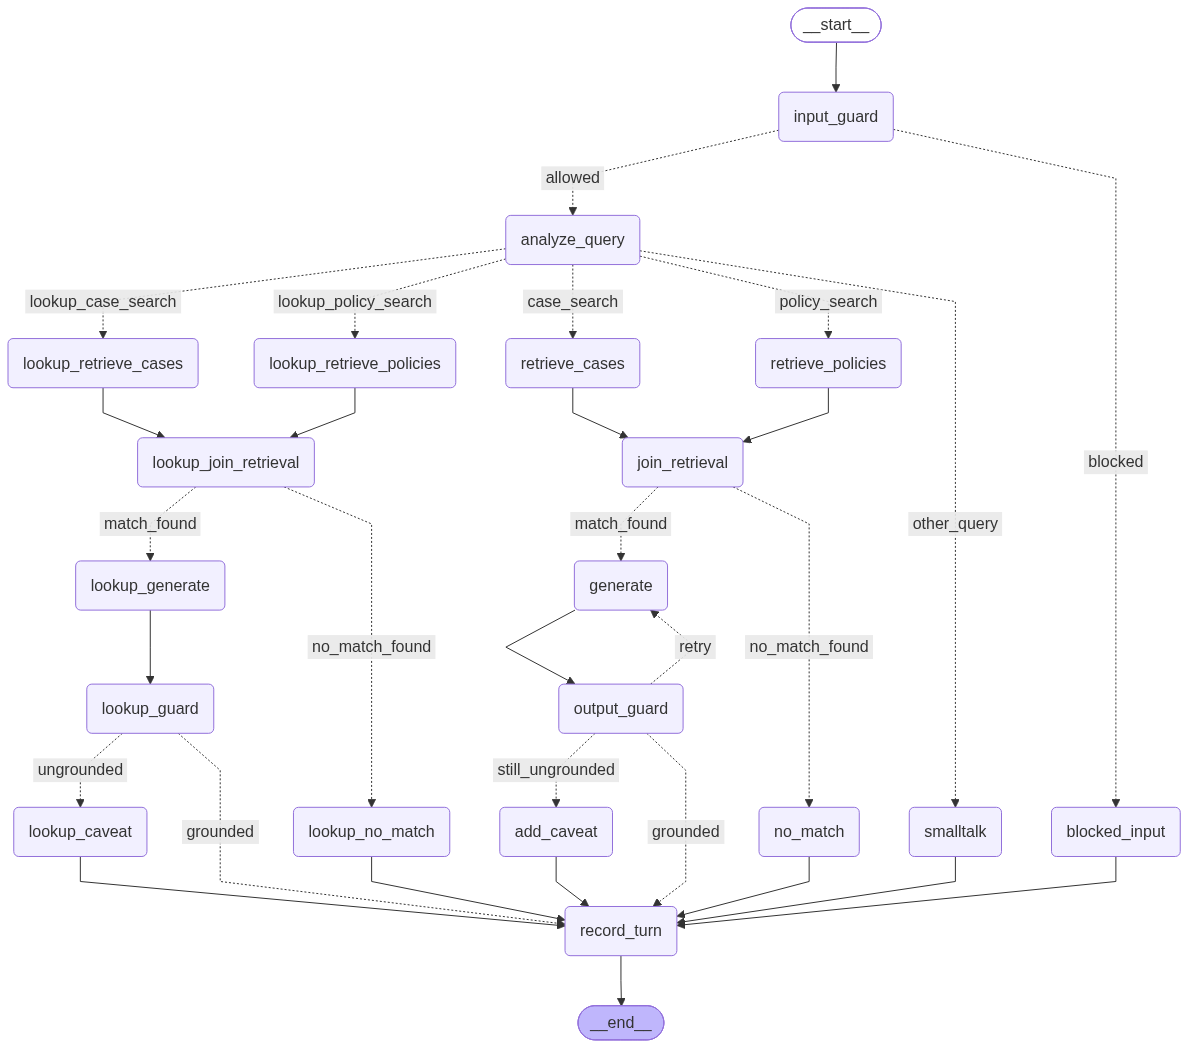
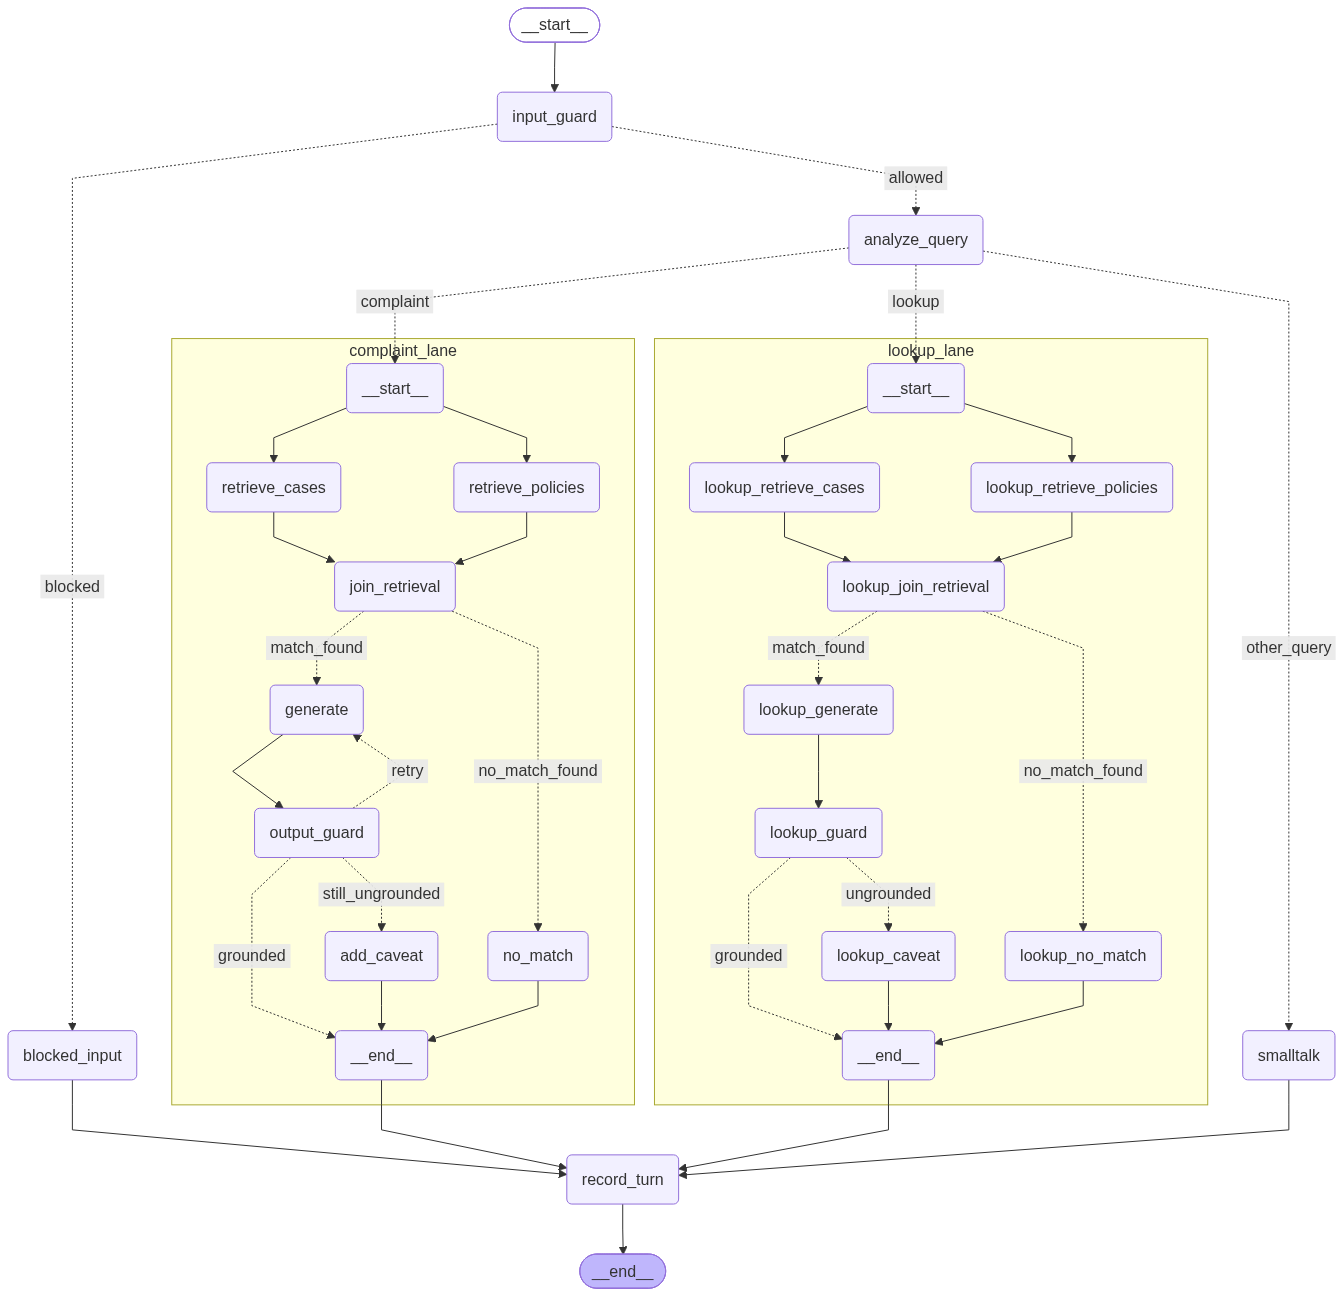
Subgraph:Wire in the subgraphs with main graph

diff --git a/backend/src/cms/rag/graph.py b/backend/src/cms/rag/graph.py
@@ -1,67 +1,40 @@
-"""Graph assembly: guard the input, analyze the query, fork on intent, then guard the draft.
+"""Graph assembly: guard the input, analyze the query, hand it to one lane, record the turn.
 
-    START -> input_guard -+-> blocked_input -> record_turn -> END
-                          +-> analyze_query -+-> complaint lane
-                                             +-> lookup lane
-                                             +-> smalltalk -> record_turn -> END
+    START -> input_guard -+-> blocked_input ------------------------------+
+                          +-> analyze_query -+-> complaint_lane ----------+
+                                             +-> lookup_lane -------------+-> record_turn -> END
+                                             +-> smalltalk ---------------+
 
-    Complaint lane:
-        retrieve_policies -+
-                           +-> join_retrieval -+-> no_match -> record_turn -> END
-        retrieve_cases ----+                   +-> generate -> output_guard -+-> record_turn -> END     (grounded)
-                                                      ^                      +-> generate               (ungrounded, first time)
-                                                      |______________________|
-                                                                             +-> add_caveat -> record_turn -> END  (still ungrounded)
+Each lane is a compiled subgraph with its own nodes — see `rag/subgraphs/complaint.py`
+and `rag/subgraphs/lookup.py` for their wiring. They share no node, so either can
+change without touching the other.
 
-    Lookup lane:
-        lookup_retrieve_policies -+
-                                  +-> lookup_join_retrieval -+-> lookup_no_match -> record_turn -> END       (nothing relevant)
-        lookup_retrieve_cases ----+                          +-> lookup_generate -> lookup_guard -+-> record_turn -> END  (grounded)
-                                                                                                  +-> lookup_caveat -> record_turn -> END
+Every path ends at record_turn, which writes the turn into `chat_history` for the
+checkpointer. Exactly one branch runs per turn, so each gets its own edge — a list
+edge would build an AND-join and wait forever.
 
-A complaint runs retrieve_policies and retrieve_cases in parallel; join_retrieval
-waits for both, so generate gets policy and case hits. A knowledge lookup is the
-agent's own policy or case question, and its lane has the same shape: both
-retrievals always run (the one `lookup_target` excludes returns empty), and
-lookup_join_retrieval decides whether anything was found. Its guard does not
-demand a policy citation, and it has no retry.
-
-The two lanes share no node: each has its own retrieval, no-match and caveat, so
-either can change without touching the other. Every path ends at record_turn,
-which writes the turn into `chat_history` for the checkpointer. Exactly one
-terminal runs per turn, so each gets its own edge — a list edge would build an
-AND-join and wait forever.
+Streaming a lane's tokens needs `astream(..., subgraphs=True)`: LangGraph drops
+messages from inside a subgraph without it. See `services/chat_service.py`.
 """
 
 import logging
 from functools import lru_cache
 from pathlib import Path
 
+from langchain_core.runnables.graph import Graph
 from langgraph.checkpoint.base import BaseCheckpointSaver
 from langgraph.graph import END, START, StateGraph
 from langgraph.graph.state import CompiledStateGraph
 
 from cms.db.mongo import get_checkpointer
-from cms.rag.nodes.add_caveat import add_caveat
 from cms.rag.nodes.analyze_query import analyze_query
 from cms.rag.nodes.blocked_input import blocked_input
-from cms.rag.nodes.generate import generate
 from cms.rag.nodes.input_guard import input_guard
-from cms.rag.nodes.join_retrieval import join_retrieval
-from cms.rag.nodes.lookup_caveat import lookup_caveat
-from cms.rag.nodes.lookup_generate import lookup_generate
-from cms.rag.nodes.lookup_guard import lookup_guard
-from cms.rag.nodes.lookup_join_retrieval import lookup_join_retrieval
-from cms.rag.nodes.lookup_no_match import lookup_no_match
-from cms.rag.nodes.lookup_retrieve_cases import lookup_retrieve_cases
-from cms.rag.nodes.lookup_retrieve_policies import lookup_retrieve_policies
-from cms.rag.nodes.no_match import no_match
-from cms.rag.nodes.output_guard import output_guard
 from cms.rag.nodes.record_turn import record_turn
-from cms.rag.nodes.retrieve_cases import retrieve_cases
-from cms.rag.nodes.retrieve_policies import retrieve_policies
 from cms.rag.nodes.smalltalk import smalltalk
 from cms.rag.state import GraphState
+from cms.rag.subgraphs.complaint import build_complaint_lane
+from cms.rag.subgraphs.lookup import build_lookup_lane
 
 logger = logging.getLogger(__name__)
 
@@ -69,26 +42,13 @@ logger = logging.getLogger(__name__)
 INPUT_GUARD = "input_guard"
 BLOCKED_INPUT = "blocked_input"
 ANALYZE_QUERY = "analyze_query"
-RETRIEVE_POLICIES = "retrieve_policies"
-RETRIEVE_CASES = "retrieve_cases"
-JOIN_RETRIEVAL = "join_retrieval"
+COMPLAINT_LANE = "complaint_lane"
+LOOKUP_LANE = "lookup_lane"
 SMALLTALK = "smalltalk"
-NO_MATCH = "no_match"
-GENERATE = "generate"
-OUTPUT_GUARD = "output_guard"
-ADD_CAVEAT = "add_caveat"
 RECORD_TURN = "record_turn"
-LOOKUP_RETRIEVE_POLICIES = "lookup_retrieve_policies"
-LOOKUP_RETRIEVE_CASES = "lookup_retrieve_cases"
-LOOKUP_JOIN_RETRIEVAL = "lookup_join_retrieval"
-LOOKUP_NO_MATCH = "lookup_no_match"
-LOOKUP_GENERATE = "lookup_generate"
-LOOKUP_GUARD = "lookup_guard"
-LOOKUP_CAVEAT = "lookup_caveat"
 
 COMPLAINT_QUERY = "complaint_query"
 KNOWLEDGE_LOOKUP = "knowledge_lookup"
-OTHER_QUERY = "other_query"
 
 
 def route_after_input_guard(state: GraphState) -> str:
@@ -96,74 +56,37 @@ def route_after_input_guard(state: GraphState) -> str:
     return "blocked" if state.get("input_blocked") else "allowed"
 
 
-def route_by_intent(state: GraphState) -> list[str] | str:
-    """Determine the branch(es) after `analyze_query`: a complaint or a lookup searches policies and cases in parallel."""
+def route_by_intent(state: GraphState) -> str:
+    """Determine the lane after `analyze_query`. Each lane starts its own retrievals."""
     intent = state.get("intent")
     if intent == COMPLAINT_QUERY:
-        return ["policy_search", "case_search"]
+        return "complaint"
     if intent == KNOWLEDGE_LOOKUP:
-        return ["lookup_policy_search", "lookup_case_search"]
+        return "lookup"
     return "other_query"
 
 
-def route_after_retrieval(state: GraphState) -> str:
-    """Determine the branch after `join_retrieval` based on the policy match result."""
-    return "no_match_found" if state.get("no_match") else "match_found"
-
-
-def route_after_output_guard(state: GraphState) -> str:
-    """Determine the branch after `output_guard`: pass, retry once, or caveat.
-
-    `grounded` is None when guardrails are disabled, which passes. The retry is
-    capped by `regenerated`, which `generate` sets on its second run.
-    """
-    if state.get("grounded") is not False:
-        return "grounded"
-    if not state.get("regenerated"):
-        return "retry"
-    return "still_ungrounded"
-
-
-def route_after_lookup_retrieval(state: GraphState) -> str:
-    """Determine the branch after `lookup_join_retrieval`: nothing relevant in either corpus, or an answer."""
-    return "no_match_found" if state.get("no_match") else "match_found"
-
-
-def route_after_lookup_guard(state: GraphState) -> str:
-    """Determine the branch after `lookup_guard`: pass, or caveat. No retry on this branch."""
-    return "grounded" if state.get("grounded") is not False else "ungrounded"
-
-
-def build_graph(checkpointer: BaseCheckpointSaver | None = None) -> CompiledStateGraph:
-    """Wire the nodes and conditional branches using explicit path mappings.
+def build_graph(
+    checkpointer: BaseCheckpointSaver | None = None,
+    lane_checkpointer: bool | None = False,
+) -> CompiledStateGraph:
+    """Wire the parent graph; the lanes are built here too, so tests can stub their nodes first.
 
     `checkpointer` defaults to None so a caller that only wants the shape — the
     CLI renderer, the flow tests — gets a graph that touches no database.
+    `lane_checkpointer` stays False except for `render_graph` — see there.
     """
     builder = StateGraph(GraphState)
 
-    # Register nodes
+    # Register nodes — a lane is one node holding its whole subgraph.
     builder.add_node(INPUT_GUARD, input_guard)
     builder.add_node(BLOCKED_INPUT, blocked_input)
     builder.add_node(ANALYZE_QUERY, analyze_query)
-    builder.add_node(RETRIEVE_POLICIES, retrieve_policies)
-    builder.add_node(RETRIEVE_CASES, retrieve_cases)
-    builder.add_node(JOIN_RETRIEVAL, join_retrieval)
+    builder.add_node(COMPLAINT_LANE, build_complaint_lane(lane_checkpointer))
+    builder.add_node(LOOKUP_LANE, build_lookup_lane(lane_checkpointer))
     builder.add_node(SMALLTALK, smalltalk)
-    builder.add_node(NO_MATCH, no_match)
-    builder.add_node(GENERATE, generate)
-    builder.add_node(OUTPUT_GUARD, output_guard)
-    builder.add_node(ADD_CAVEAT, add_caveat)
     builder.add_node(RECORD_TURN, record_turn)
-    builder.add_node(LOOKUP_RETRIEVE_POLICIES, lookup_retrieve_policies)
-    builder.add_node(LOOKUP_RETRIEVE_CASES, lookup_retrieve_cases)
-    builder.add_node(LOOKUP_JOIN_RETRIEVAL, lookup_join_retrieval)
-    builder.add_node(LOOKUP_NO_MATCH, lookup_no_match)
-    builder.add_node(LOOKUP_GENERATE, lookup_generate)
-    builder.add_node(LOOKUP_GUARD, lookup_guard)
-    builder.add_node(LOOKUP_CAVEAT, lookup_caveat)
 
-    # Linear and conditional edges
     builder.add_edge(START, INPUT_GUARD)
 
     builder.add_conditional_edges(
@@ -175,74 +98,22 @@ def build_graph(checkpointer: BaseCheckpointSaver | None = None) -> CompiledStat
         },
     )
 
-    # Intent-based branching on the edge from analyze_query
     builder.add_conditional_edges(
-        ANALYZE_QUERY, 
-        route_by_intent, 
+        ANALYZE_QUERY,
+        route_by_intent,
         {
-            "policy_search": RETRIEVE_POLICIES,
-            "case_search": RETRIEVE_CASES,
-            "lookup_policy_search": LOOKUP_RETRIEVE_POLICIES,
-            "lookup_case_search": LOOKUP_RETRIEVE_CASES,
+            "complaint": COMPLAINT_LANE,
+            "lookup": LOOKUP_LANE,
             "other_query": SMALLTALK,
-        }
-    )
-    
-    # Waits for both retrievals before the one match/no-match decision.
-    builder.add_edge([RETRIEVE_POLICIES, RETRIEVE_CASES], JOIN_RETRIEVAL)
-
-    builder.add_conditional_edges(
-        JOIN_RETRIEVAL,
-        route_after_retrieval,
-        {
-            "match_found": GENERATE,
-            "no_match_found": NO_MATCH,
-        },
-    )
-
-    builder.add_edge(GENERATE, OUTPUT_GUARD)
-
-    builder.add_conditional_edges(
-        OUTPUT_GUARD,
-        route_after_output_guard,
-        {
-            "grounded": RECORD_TURN,
-            "retry": GENERATE,
-            "still_ungrounded": ADD_CAVEAT,
-        },
-    )
-
-    # Lookup lane: same shape as the complaint lane, with its own nodes throughout.
-    builder.add_edge([LOOKUP_RETRIEVE_POLICIES, LOOKUP_RETRIEVE_CASES], LOOKUP_JOIN_RETRIEVAL)
-
-    builder.add_conditional_edges(
-        LOOKUP_JOIN_RETRIEVAL,
-        route_after_lookup_retrieval,
-        {
-            "match_found": LOOKUP_GENERATE,
-            "no_match_found": LOOKUP_NO_MATCH,
-        },
-    )
-
-    builder.add_edge(LOOKUP_GENERATE, LOOKUP_GUARD)
-
-    builder.add_conditional_edges(
-        LOOKUP_GUARD,
-        route_after_lookup_guard,
-        {
-            "grounded": RECORD_TURN,
-            "ungrounded": LOOKUP_CAVEAT,
         },
     )
 
     # One edge each, never `add_edge([...], RECORD_TURN)`: a list start is an
     # AND-join, and only one of these ever runs.
-    builder.add_edge(ADD_CAVEAT, RECORD_TURN)
     builder.add_edge(BLOCKED_INPUT, RECORD_TURN)
-    builder.add_edge(NO_MATCH, RECORD_TURN)
+    builder.add_edge(COMPLAINT_LANE, RECORD_TURN)
+    builder.add_edge(LOOKUP_LANE, RECORD_TURN)
     builder.add_edge(SMALLTALK, RECORD_TURN)
-    builder.add_edge(LOOKUP_NO_MATCH, RECORD_TURN)
-    builder.add_edge(LOOKUP_CAVEAT, RECORD_TURN)
     builder.add_edge(RECORD_TURN, END)
 
     return builder.compile(checkpointer=checkpointer)
@@ -254,13 +125,21 @@ def get_graph() -> CompiledStateGraph:
     return build_graph(get_checkpointer())
 
 
+def build_drawing() -> Graph:
+    """The whole graph with each lane's nodes expanded, for drawing only.
+
+    LangGraph's xray skips subgraphs compiled with `checkpointer=False`, so the
+    lanes are built with None here. This graph is drawn, never run, so nothing is
+    stored — and with no parent checkpointer it touches no database.
+    """
+    return build_graph(lane_checkpointer=None).get_graph(xray=True)
+
+
 def render_graph() -> None:
-    """Print the graph as Mermaid and save it as a PNG next to this module."""
+    """Save the whole graph, lanes expanded, as a PNG next to this module."""
     target = Path(__file__).with_suffix(".png")
     try:
-        # `build_graph`, not `get_graph`: drawing the shape needs no database.
-        graph = build_graph().get_graph()
-        graph.draw_mermaid_png(output_file_path=str(target))
+        build_drawing().draw_mermaid_png(output_file_path=str(target))
         logger.info("Graph png saved to %s", target)
     except Exception:
         logger.exception("Could not render the graph")
